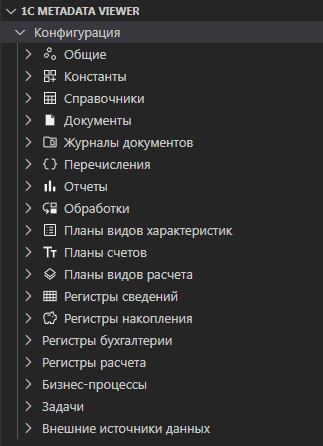
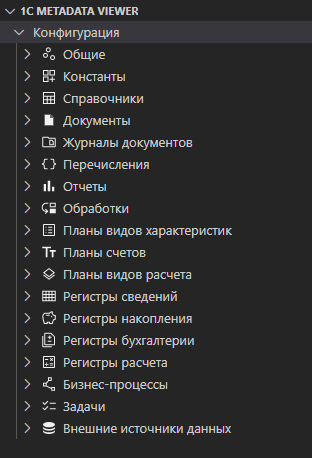
Версия 0.0.5

Changed region(s): [[0.0, 0.0, 0.75, 0.991]]

diff --git a/CHANGELOG.md b/CHANGELOG.md
@@ -1,5 +1,18 @@
 # Changelog
 
+### 0.0.5
+
+* [new] Просмотр предопределенных элементов
+* [new] Закончил метаданные верхнего уровня
+  * Планы счетов
+  * Планы видов расчета
+  * Регистры бухгалтерии
+  * Регистры расчета
+  * Бизнес-процессы
+  * Задачи
+  * Внешние источники данных
+* [fix] Не открывается модуль формы
+
 ### 0.0.4
 
 * [new] Открытие XML

diff --git a/README.md b/README.md
@@ -22,8 +22,15 @@
 * Отчеты
 * Обработки
 * Планы видов характеристик
+* Планы счетов
+* Планы видов расчета
 * Регистры сведений
 * Регистры накопления
+* Регистры бухгалтерии
+* Регистры расчета
+* Бизнес-процессы
+* Задачи
+* Внешние источники данных
 
 ### Модули
 
